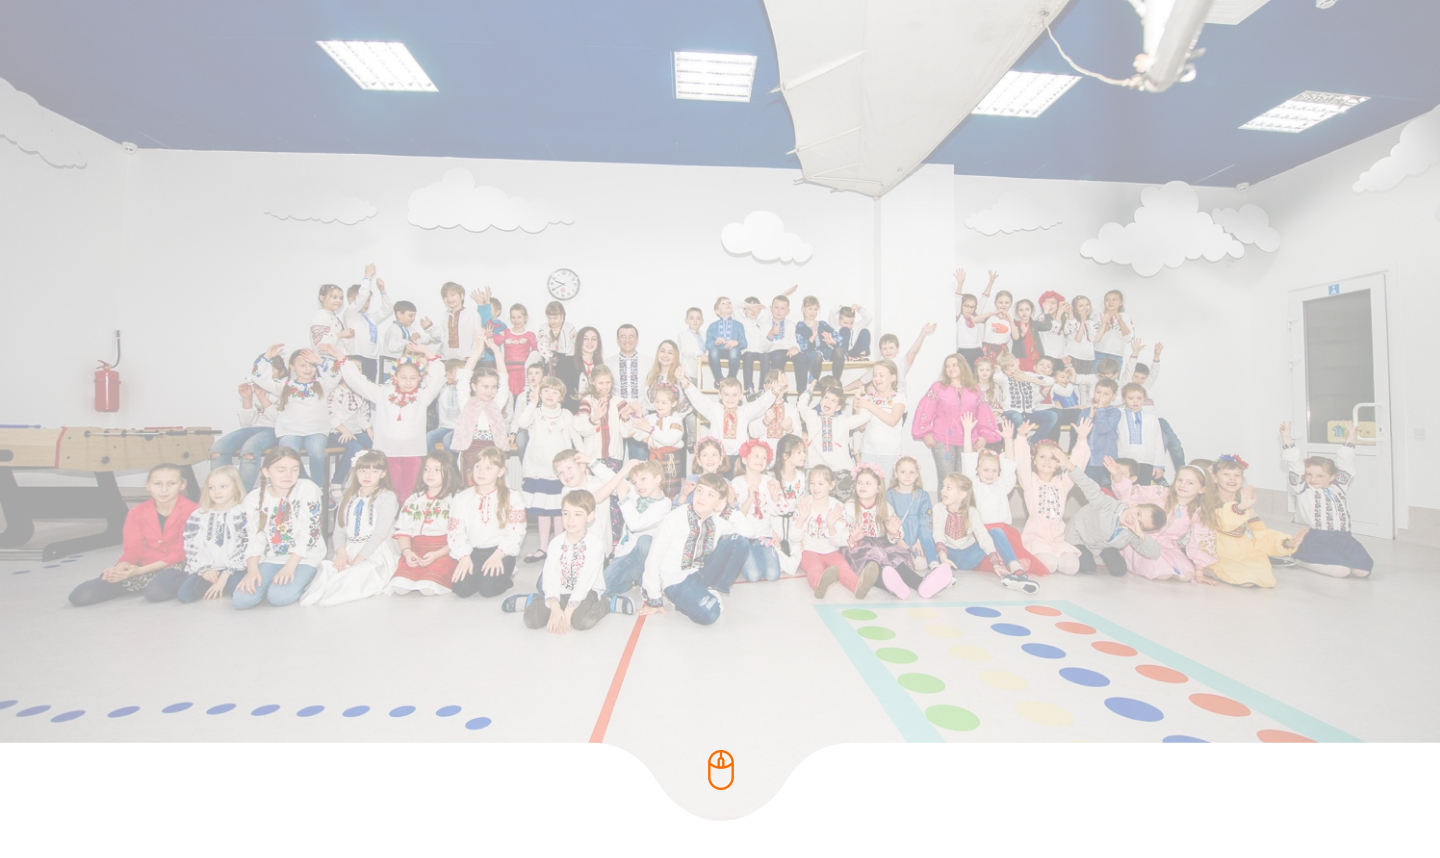
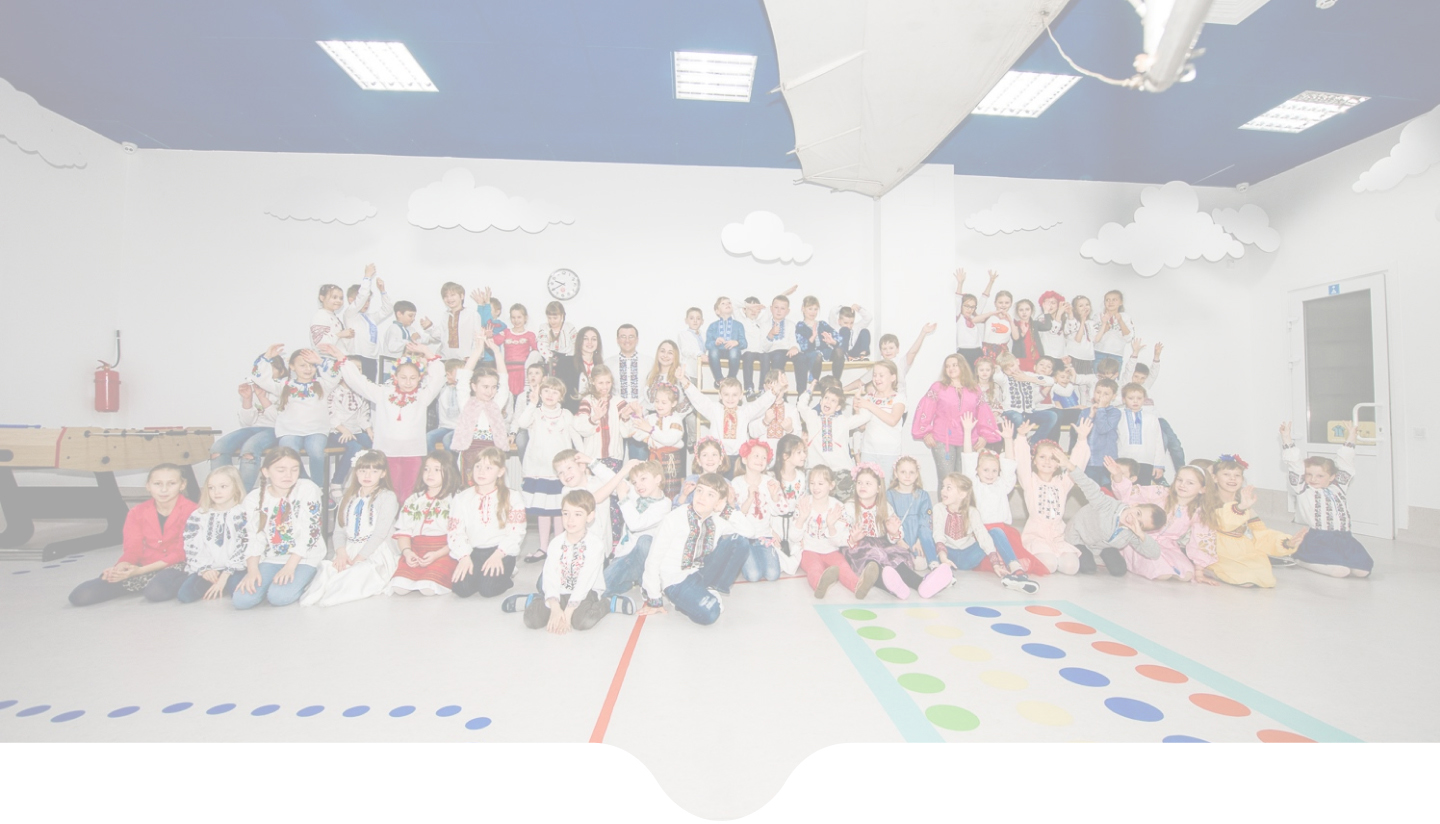
f

diff --git a/index.html b/index.html
@@ -81,18 +81,77 @@
 
         <section class="container why_we">
             <div class="df s_betwen why_wrap">
-                <div class="one"></div>
-                <div class="one"></div>
-                <div class="one"></div>
-                <div class="one"></div>
-                <div class="one"></div>
-                <div class="one"></div>
-                <div class="one"></div>
-                <div class="one"></div>
-                <div class="one"></div>
-                <div class="one"></div>
-                <div class="one"></div>
-                <div class="one"></div>
+                <div class="one">
+                    <p>
+                        Авторські програми і навчальні посібники з таких предметів, як математика й мислення, мають гриф МОН України, інтегрований курс з української мови й читання перебуває на етапі апробації.
+                    </p>
+                </div>
+                
+                <div class="one">
+                    <p>
+                        Надаємо всі підручники, навчальні посібники й інші навчальні матеріали в друкованому чи електронному форматі.
+                    </p>
+                </div>
+
+                <div class="one">
+                    <p>
+                        Соціалізація дитини завдяки «живим урокам» та спілкування з учителями й однокласниками.
+                    </p>
+                </div>
+
+                <div class="one">
+                    <p>
+                        Школа має ліцензію на освітню діяльність.
+                    </p>
+                </div>
+
+                <div class="one">
+                    <p>
+                        Усі авторські програми повністю покривають вимоги Держстандарту і навіть працюють на випередження.
+                    </p>
+                </div>
+
+                <div class="one">
+                    <p>
+                        Професійні психологи проводять унікальні уроки щастя — вчимо дітей позитивно мислити й розуміти себе.
+                    </p>
+                </div>
+
+                <div class="one">
+                    <p>
+                        Уроки театру онлайн з акторами з Львівського молодіжного театру імені Леся Курбаса.
+                    </p>
+                </div>
+
+                <div class="one">
+                    <p>
+                        Набираємо 1–3 класи з продовженням навчання в старших класах.
+                    </p>
+                </div>
+
+                <div class="one">
+                    <p>
+                        Зустріч усіх однокласників улітку у Львові. Триденна програма в школі, прогулянки Львовом та екскурсії.
+                    </p>
+                </div>
+
+                <div class="one">
+                    <p>
+                        Постійний контакт батьків з учителями через електронний щоденник Edus.
+                    </p>
+                </div>
+
+                <div class="one">
+                    <p>
+                        По закінченню школи / класу учні отримають свідоцтво державного зразка.
+                    </p>
+                </div>
+
+                <div class="one">
+                    <p>
+                        У кожному класі не більше як 12 дітей.
+                    </p>
+                </div>
             </div>
         </section>
     </main>

diff --git a/styles/styles.scss b/styles/styles.scss
@@ -118,7 +118,7 @@ footer {
 }
 
 .top_section {
-  height: 900px;
+  height: 985px;
   padding-top: 81px;
   background: url("../img/top_bg.jpg") no-repeat center / contain;
 
@@ -128,28 +128,28 @@ footer {
 
   .centered_paper {
     position: absolute;
-    top: 220px;
+    top: 160px;
     left: 50%;
     transform: translateX(-50%);
-    width: 730px;
+    width: 750px;
     height: 330px;
     background: url("../img/top_paper.png") no-repeat center / contain;
 
     &::before {
       content: "";
       position: absolute;
-      top: -20px;
-      right: 100px;
-      width: 70px;
-      height: 81px;
+      top: -24px;
+      right: 94px;
+      width: 90px;
+      height: 90px;
       background: url("../img/paperclip.svg") no-repeat center / contain;
     }
 
     &:after {
       content: "Вчимо творити майбутнє!";
       position: absolute;
-      top: 120px;
-      left: 114px;
+      top: 126px;
+      left: 123px;
       width: 526px;
       height: 72px;
       transform: rotate(-10deg);
@@ -166,7 +166,7 @@ footer {
 
   .under_paper {
     position: absolute;
-    top: 500px;
+    top: 413px;
     left: 50%;
     transform: translateX(-50%);
     width: 706px;
@@ -185,7 +185,7 @@ footer {
 
   .assigne_btn {
     position: absolute;
-    top: 600px;
+    top: 604px;
     left: 50%;
     transform: translateX(-50%);
     width: 220px;
@@ -208,7 +208,7 @@ footer {
   .scroll_screen {
     position: absolute;
     left: 50%;
-    top: 690px;
+    top: 750px;
     transform: translateX(-50%);
     width: 40px;
     height: 40px;
@@ -276,9 +276,28 @@ footer {
     .one {
       flex: 1 1 30%;
       max-width: 30%;
-      outline: 1px solid red;
-      height: 45px;
       margin-bottom: 65px;
+      padding-top: 15px;
+
+      p {
+        font-family: Plumb;
+        font-size: 24px;
+        font-weight: bold;
+        line-height: 1.2;
+        text-align: left;
+        color: #413e6f;
+        letter-spacing: -0.84px;
+      }
+
+      &:before {
+        content: "";
+        width: 99px;
+        height: 4px;
+        background-color: #fa6e00;
+        position: absolute;
+        top: 0;
+        left: 0;
+      }
     }
   }
 }

diff --git a/styles/styles.css b/styles/styles.css
@@ -810,7 +810,7 @@ footer {
 }
 
 .top_section {
-  height: 900px;
+  height: 985px;
   padding-top: 81px;
   background: url("../img/top_bg.jpg") no-repeat center/contain;
 }
@@ -821,10 +821,10 @@ footer {
 
 .top_section .centered_paper {
   position: absolute;
-  top: 220px;
+  top: 160px;
   left: 50%;
   transform: translateX(-50%);
-  width: 730px;
+  width: 750px;
   height: 330px;
   background: url("../img/top_paper.png") no-repeat center/contain;
 }
@@ -832,18 +832,18 @@ footer {
 .top_section .centered_paper::before {
   content: "";
   position: absolute;
-  top: -20px;
-  right: 100px;
-  width: 70px;
-  height: 81px;
+  top: -24px;
+  right: 94px;
+  width: 90px;
+  height: 90px;
   background: url("../img/paperclip.svg") no-repeat center/contain;
 }
 
 .top_section .centered_paper:after {
   content: "Вчимо творити майбутнє!";
   position: absolute;
-  top: 120px;
-  left: 114px;
+  top: 126px;
+  left: 123px;
   width: 526px;
   height: 72px;
   transform: rotate(-10deg);
@@ -859,7 +859,7 @@ footer {
 
 .top_section .under_paper {
   position: absolute;
-  top: 500px;
+  top: 413px;
   left: 50%;
   transform: translateX(-50%);
   width: 706px;
@@ -878,7 +878,7 @@ footer {
 
 .top_section .assigne_btn {
   position: absolute;
-  top: 600px;
+  top: 604px;
   left: 50%;
   transform: translateX(-50%);
   width: 220px;
@@ -901,7 +901,7 @@ footer {
 .top_section .scroll_screen {
   position: absolute;
   left: 50%;
-  top: 690px;
+  top: 750px;
   transform: translateX(-50%);
   width: 40px;
   height: 40px;
@@ -968,8 +968,27 @@ footer {
 .why_we .why_wrap .one {
   flex: 1 1 30%;
   max-width: 30%;
-  outline: 1px solid red;
-  height: 45px;
   margin-bottom: 65px;
+  padding-top: 15px;
+}
+
+.why_we .why_wrap .one p {
+  font-family: Plumb;
+  font-size: 24px;
+  font-weight: bold;
+  line-height: 1.2;
+  text-align: left;
+  color: #413e6f;
+  letter-spacing: -0.84px;
+}
+
+.why_we .why_wrap .one:before {
+  content: "";
+  width: 99px;
+  height: 4px;
+  background-color: #fa6e00;
+  position: absolute;
+  top: 0;
+  left: 0;
 }
 /*# sourceMappingURL=styles.css.map */
